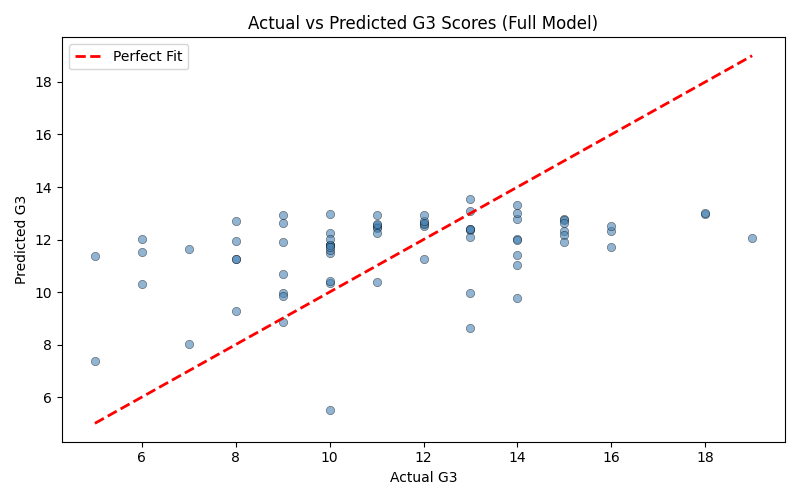
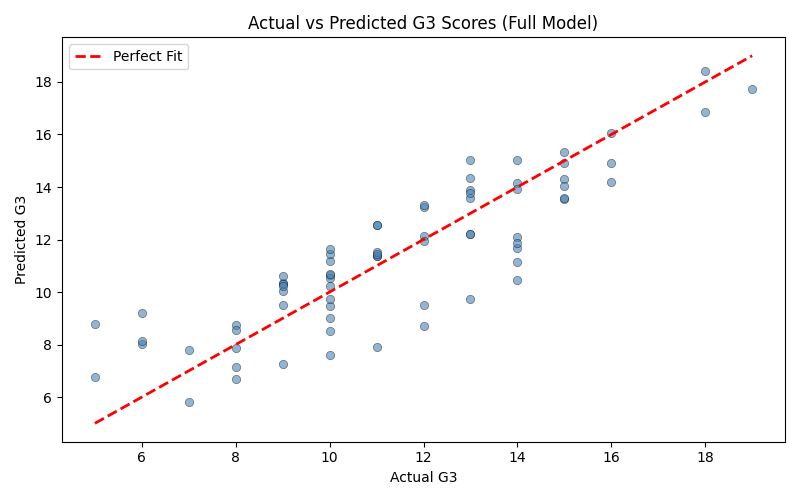
Final task complete

diff --git a/assignments_02/project_02.py b/assignments_02/project_02.py
@@ -134,7 +134,7 @@ print("R²:", r2)
 
 #Task 5 : Build the Full Model
 
-feature_cols = ["failures", "Medu", "Fedu", "studytime", "higher", "schoolsup", "internet", "sex", "freetime", "activities", "traveltime"]
+feature_cols = ["failures", "Medu", "Fedu", "studytime", "higher", "schoolsup", "internet", "sex", "freetime", "activities", "traveltime", "G1"]
 
 df_clean = df2.copy()
 X = df_clean[feature_cols].values
@@ -181,3 +181,4 @@ plt.title("Feature Coefficients — Full Model")
 plt.tight_layout()
 output_file("feature_coefficients.png")
 
+#A high correlation does not equal the root cause. This is definitely a useful model for identifying factors that affect a students performance. If educators wanted to intervene early, providing internet access and study time is the route to go. Educators are unable to control a students background such as family's education levels or economic standing. They are able to control internet and study time however. That also so happens to be a very good indicator (outside of G1) of studies performing well on their final G3 exam. 
